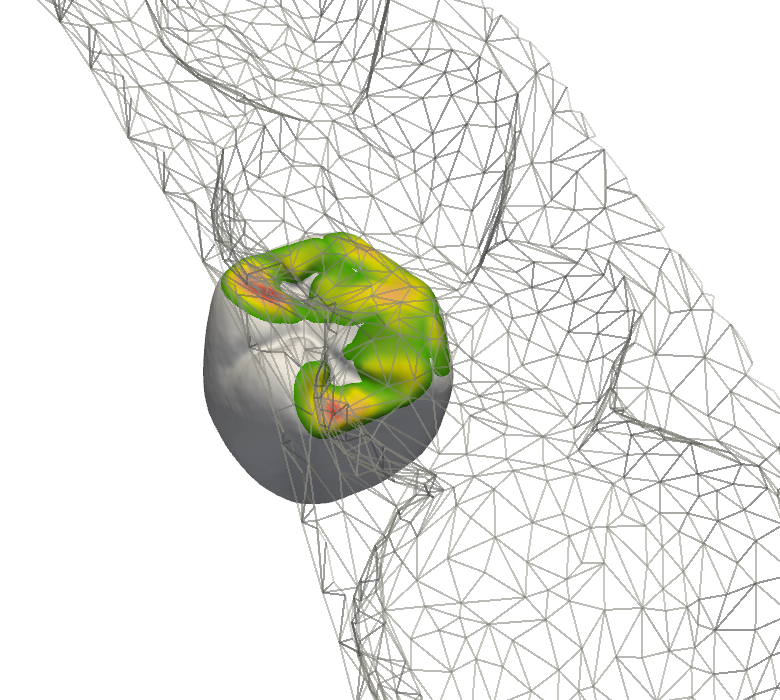
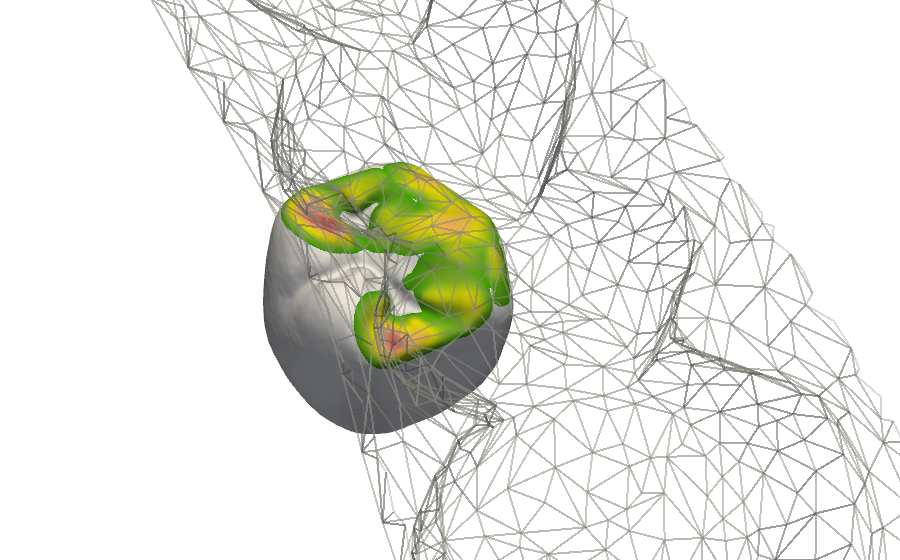
opt 12

diff --git a/figures/ablation_occlusion/step3_merge_imgs.py b/figures/ablation_occlusion/step3_merge_imgs.py
@@ -3,7 +3,7 @@
 from __future__ import annotations
 import argparse, math
 from pathlib import Path
-from PIL import Image, ImageDraw, ImageFont, ImageOps
+from PIL import Image, ImageChops, ImageDraw, ImageFont, ImageOps
 from occlusion_colormap_shining3d import DEFAULT_LIMITS, PENETRATION_COLOR, occlusion_colormap
 
 SCRIPT_DIR = Path(__file__).resolve().parent
@@ -23,16 +23,16 @@ def main() -> None:
     selection.add_argument("--cases", nargs="+", metavar="DIR", help="case folders in top-to-bottom order, relative to folder or absolute")
     selection.add_argument("--list", dest="case_list", type=Path, help="file listing case folders in top-to-bottom order")
     parser.add_argument("-o", "--output", type=Path, default=Path("merged_heatmaps.png"))
-    parser.add_argument("--gap", type=int, default=40, help="outer margin in pixels (default: %(default)s)")
+    parser.add_argument("--gap", type=int, default=30, help="outer margin in pixels (default: %(default)s)")
     # 图片的列间距
-    parser.add_argument("--column-gap", type=int, metavar="PX", default=320,
+    parser.add_argument("--column-gap", type=int, metavar="PX", default=300,
                         help="horizontal gap between image columns in pixels (default: %(default)s)")
     # 图片的行间距
-    parser.add_argument("--row-gap", type=int, metavar="PX", default=40,
+    parser.add_argument("--row-gap", type=int, metavar="PX", default=60,
                         help="vertical gap between image rows in pixels (default: %(default)s)")
     # 上方文字和图片的距离
     parser.add_argument("--header-gap", type=int, default=50, help="distance from the bottom of column label text to images (pixels)")
-    parser.add_argument("--font-size", type=int, default=80, help="column label font size")
+    parser.add_argument("--font-size", type=int, default=100, help="column label font size")
     parser.add_argument("--labels", nargs=3, default=("Reference Crown", "I-Opposing", "Full model"), metavar=("GT", "WITHOUT", "WITH"))
     parser.add_argument("--background", default="white")
     parser.add_argument("--clim", nargs="+", type=float, default=DEFAULT_LIMITS, help="clearance limits in mm: MAX or 0 MAX (default: 0 0.2); use the same limits as step2")
@@ -42,7 +42,7 @@ def main() -> None:
     parser.add_argument("--colorbar-thickness", type=int, default=50)
     parser.add_argument("--colorbar-gap", type=int, default=120)
     parser.add_argument("--colorbar-position", nargs=2, type=int, 
-            default=(3200, 2130), metavar=("X", "Y"), help="colorbar top-left position; default is right of images")
+            default=(3550, 1580), metavar=("X", "Y"), help="colorbar top-left position; default is right of images")
     args = parser.parse_args()
     if len(args.clim) not in (1, 2): parser.error("--clim expects MAX or MIN MAX")
     vmin, vmax = (0.0, args.clim[0]) if len(args.clim) == 1 else args.clim
@@ -132,6 +132,10 @@ def main() -> None:
         tick_y = bar_y + round((bar_length - 1) * i / (tick_count - 1))
         draw.line((bar_x + args.colorbar_thickness, tick_y, bar_x + args.colorbar_thickness + 8, tick_y), fill="black")
         draw.text((bar_x + args.colorbar_thickness + 14, tick_y), label, font=colorbar_font, fill="black", anchor="lm")
+    background = Image.new("RGB", canvas.size, args.background)
+    content_bounds = ImageChops.difference(canvas, background).getbbox()
+    if content_bounds is not None and content_bounds[3] < canvas.height:
+        canvas = canvas.crop((0, 0, canvas.width, content_bounds[3]))
     output = args.output.expanduser(); output = output if output.is_absolute() else SCRIPT_DIR / output
     output.parent.mkdir(parents=True, exist_ok=True); canvas.save(output)
     print(f"saved {output.resolve()} ({len(rows)} rows)")

diff --git a/figures/ablation_occlusion/step2_render_heatmap.py b/figures/ablation_occlusion/step2_render_heatmap.py
@@ -11,6 +11,7 @@ import argparse, json, re
 from pathlib import Path
 import numpy as np
 import pyvista as pv
+from PIL import Image
 from occlusion_colormap_shining3d import (
     BACKGROUND_COLOR, DEFAULT_LIMITS, PENETRATION_COLOR, occlusion_colormap,
 )
@@ -54,8 +55,12 @@ def main() -> None:
     # 删除多少三角面片，值越大删除越多
     parser.add_argument("--jaw-reduction", type=float, default=0.9,
                         help="∂ 0 keeps all (default: 0.9)")
+    parser.add_argument("--crop-percent", type=float, default=10,
+                        help="percentage of screenshot height to crop from each of the top and bottom (default: %(default)s)")
     parser.add_argument("-o", "--output", type=Path, default=None)
     args = parser.parse_args()
+    if not 0 <= args.crop_percent < 50:
+        parser.error("--crop-percent must be in [0, 50)")
     if len(args.clim) not in (1, 2):
         parser.error("--clim expects MAX or MIN MAX")
     vmin, vmax = (0.0, args.clim[0]) if len(args.clim) == 1 else args.clim
@@ -93,7 +98,7 @@ def main() -> None:
         contact_values = values.astype(float, copy=True)
         contact_values[contact_values > vmax] = np.nan
         crown["surface_distance"] = contact_values
-        plotter = pv.Plotter(off_screen=True, window_size=(780, 700))
+        plotter = pv.Plotter(off_screen=True, window_size=(900, 700))
         plotter.set_background("white")
         plotter.add_mesh(wire_jaw, color="#a8aaa5", style="wireframe", line_width=2.0,
                          opacity=0.32, show_edges=True)
@@ -114,6 +119,13 @@ def main() -> None:
                 plotter.camera.clipping_range = view["clipping_range"]
         output = args.output if args.output and stem == "gt" else folder / f"{stem}_heatmap.png"
         plotter.show(screenshot=str(output), auto_close=True)
+        if args.crop_percent:
+            with Image.open(output) as screenshot:
+                trim = int(screenshot.height * args.crop_percent / 100)
+                if trim:
+                    cropped = screenshot.crop((0, trim, screenshot.width, screenshot.height - trim))
+            if trim:
+                cropped.save(output)
         print(output)
 
 
